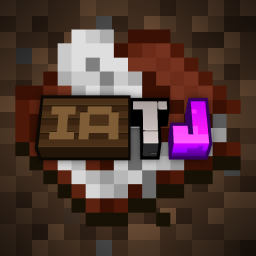
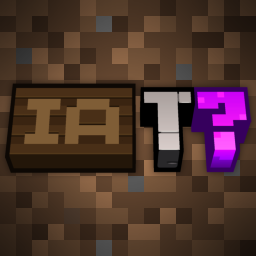
1.0.1

diff --git a/README.md b/README.md
@@ -1,0 +1,7 @@
+![logo](./iatw.png)
+
+----
+
+### Credit
+
+Book Texture is a hue shift of the Book & Quill texture from [Vanilla+ Collections](https://modrinth.com/resourcepack/vanillacollections) by [bebebea_loste](https://modrinth.com/user/bebebea_loste)
